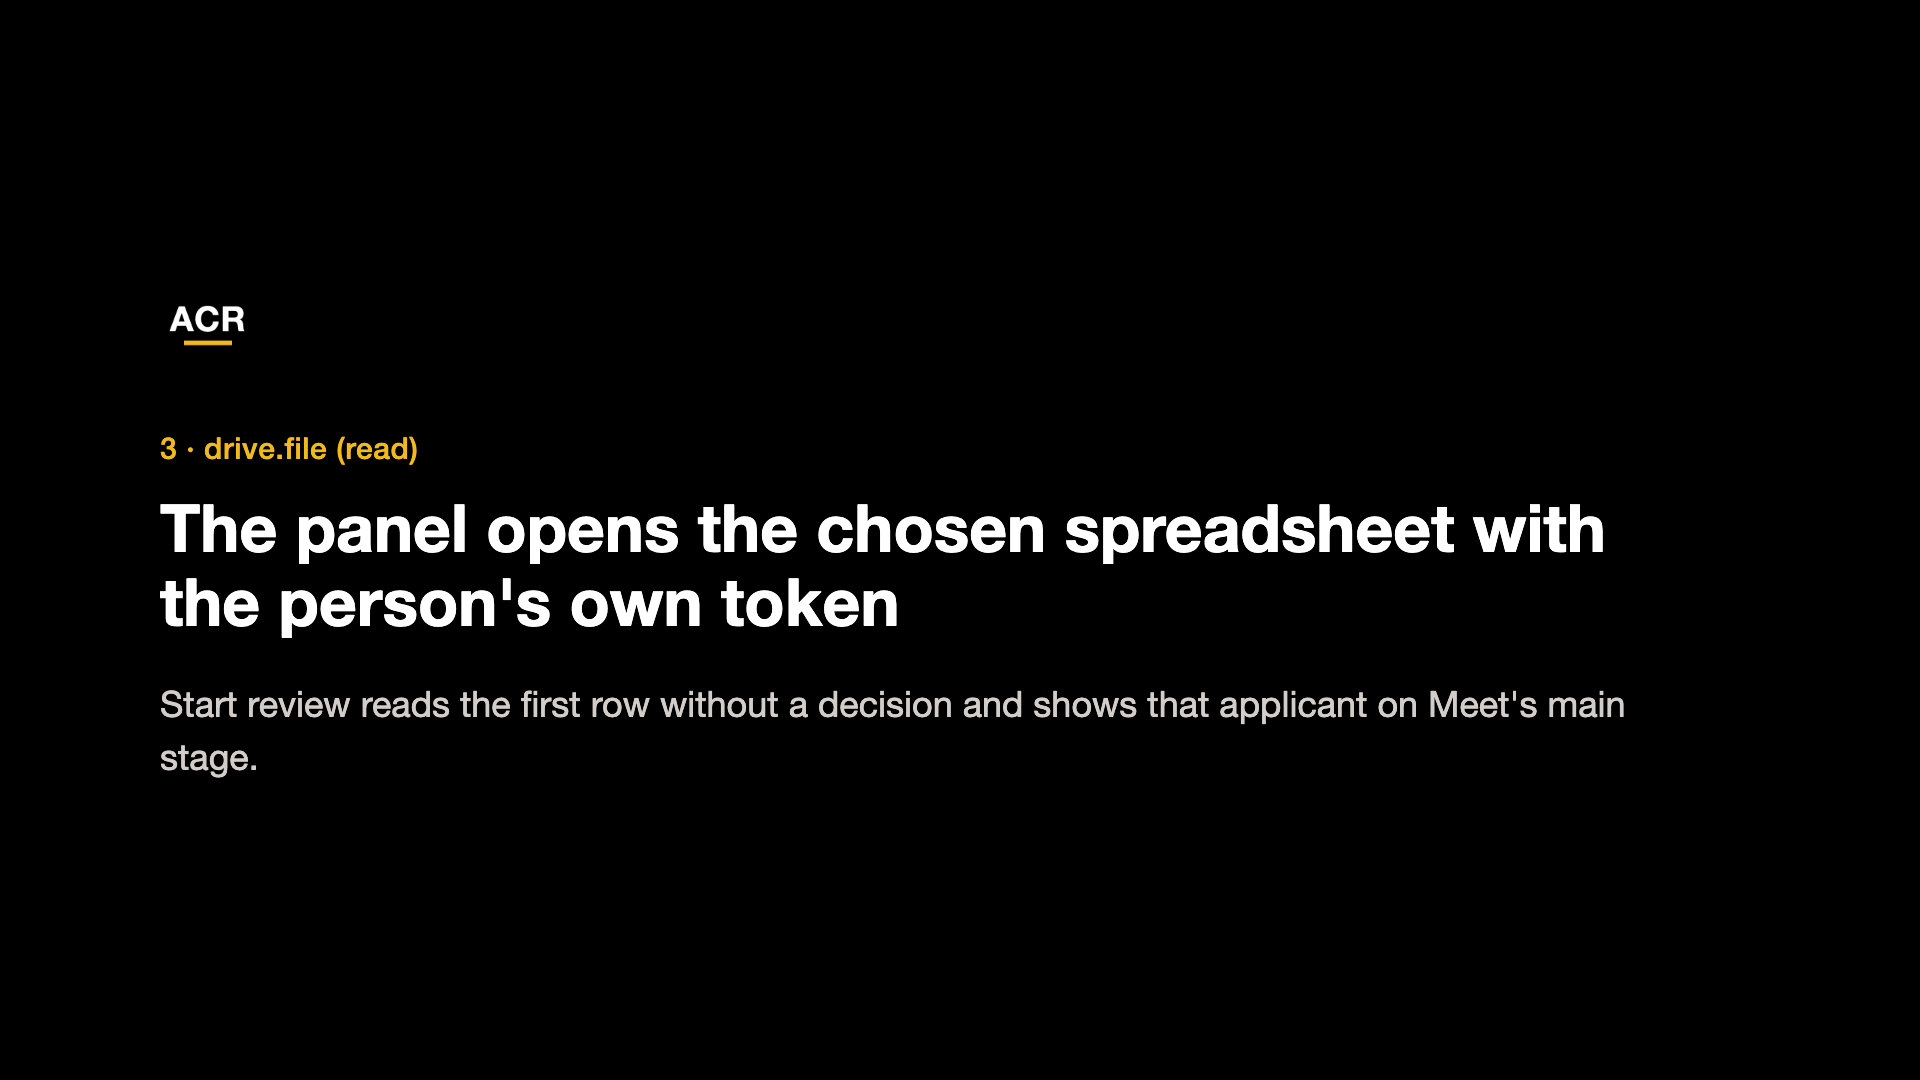
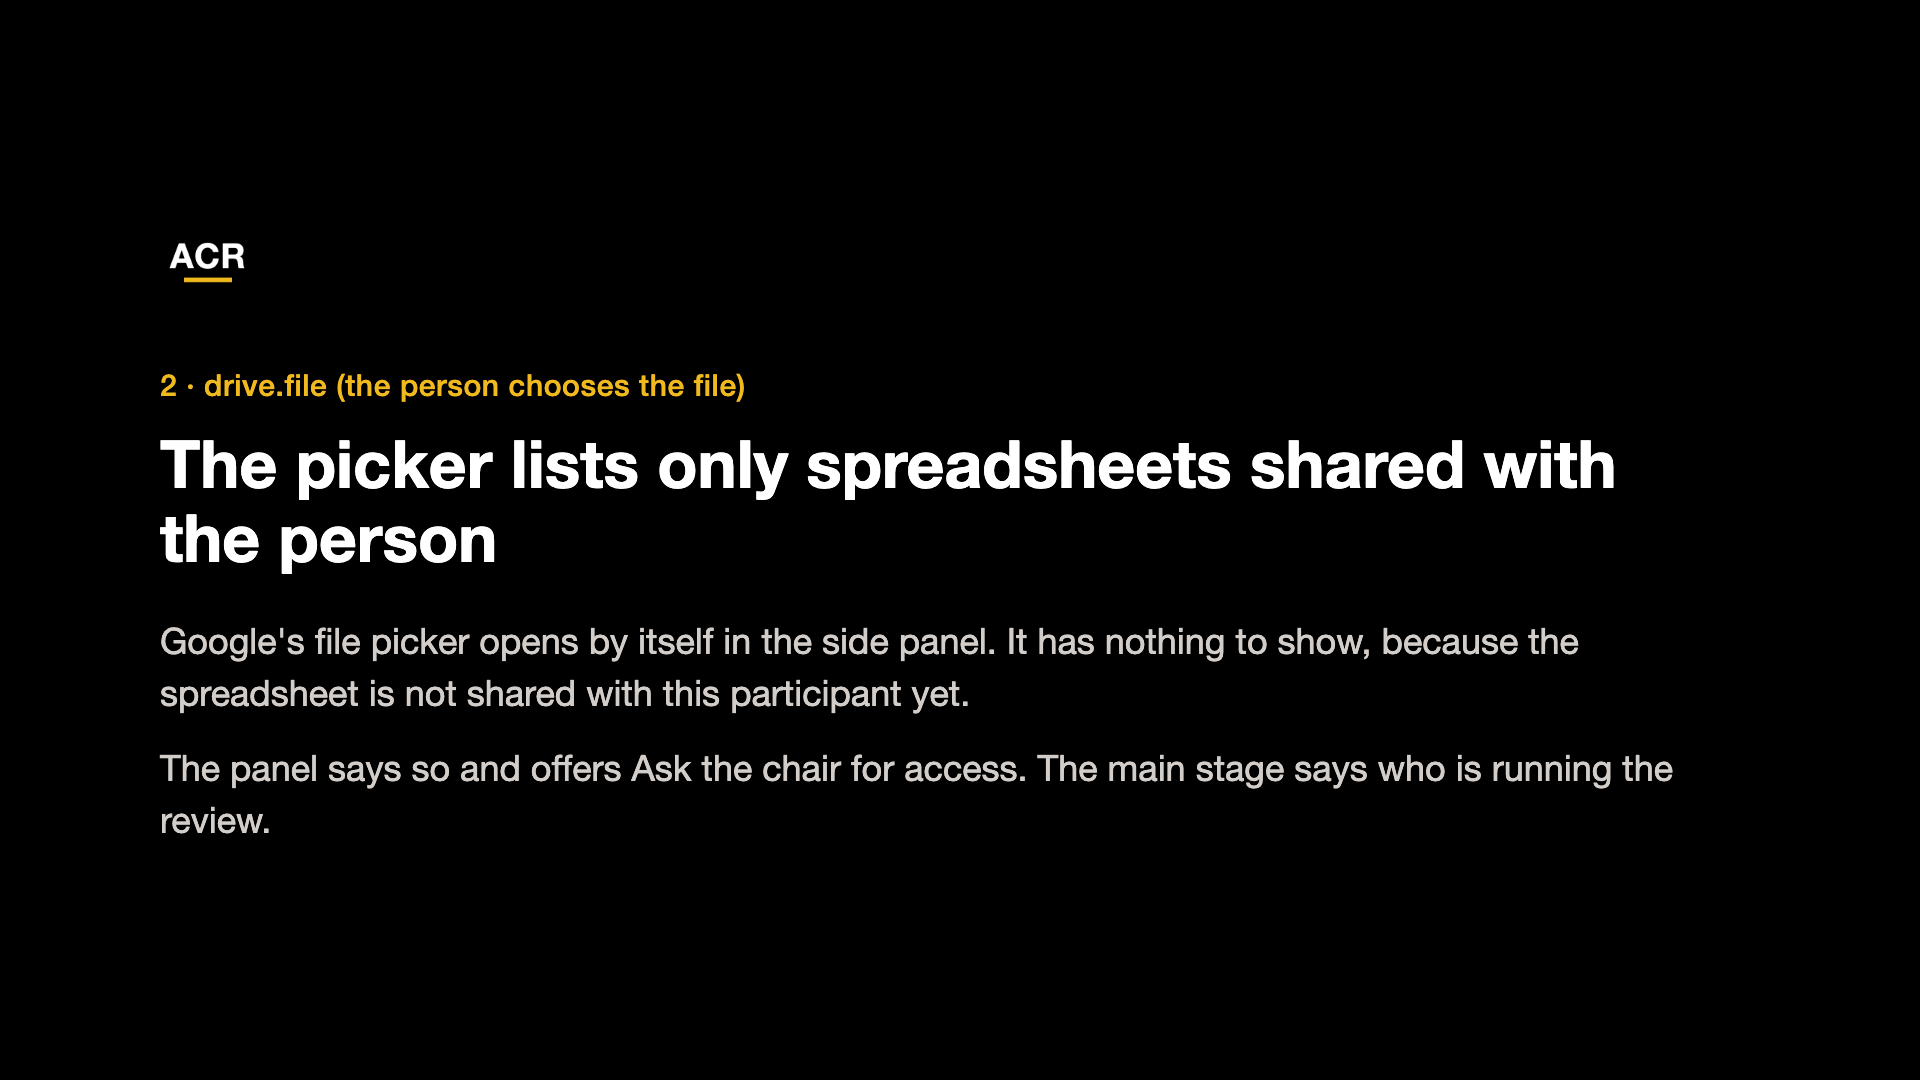
Review video for v0.9.2: asking for access, Share, votes, record, the sheet
Ben: "After you submit and you keep working on the updated video because
I'd like it ready if they need it."

Claude-Session: https://claude.ai/code/session_01FPuSAmHbjxvZiMBbDPTbAF

Changed region(s): [[0.0625, 0.3972, 0.875, 0.7944], [0.0625, 0.2139, 0.4062, 0.3667]]

diff --git a/tools/meet-addon/screencast/card03.html b/tools/meet-addon/screencast/card03.html
@@ -6,4 +6,4 @@ img{width:96px;height:96px;border-radius:20px;margin-bottom:56px}
 h1{font-size:66px;font-weight:700;line-height:1.12;margin:0 0 40px;max-width:1560px}
 p,li{font-size:36px;line-height:1.45;color:#d2cdc8;max-width:1560px;margin:0 0 22px}
 ul{margin:0;padding-left:1.1em}
-</style><main><img src="mark.png" alt=""><p class="k">2 · drive.file (the person chooses the file)</p><h1>Google&#x27;s file picker opens by itself in the side panel</h1><p>The first time only, the person selects the committee&#x27;s spreadsheet in the Google Picker (setFileIds). ACR Helper can then open that one file and nothing else in their Drive.</p><p>The picker lists the spreadsheet only if it is shared with the person, so the spreadsheet&#x27;s own sharing decides who can use the add-on.</p><ul></ul></main>
+</style><main><img src="mark.png" alt=""><p class="k">1 · Sign in: one button, one Google window</p><h1>Sign in with Google: each participant chooses their own account</h1><p>When the browser holds several Google accounts, Google&#x27;s account chooser appears in each Meet tab, so every panel signs in as the person in the call.</p><p>openid, userinfo.email, userinfo.profile: sign the person in and show their name to the committee. drive.file: see and change only the files the person chooses for ACR Helper.</p><ul></ul></main>

diff --git a/tools/meet-addon/screencast/card01.html b/tools/meet-addon/screencast/card01.html
@@ -6,4 +6,4 @@ img{width:96px;height:96px;border-radius:20px;margin-bottom:56px}
 h1{font-size:66px;font-weight:700;line-height:1.12;margin:0 0 40px;max-width:1560px}
 p,li{font-size:36px;line-height:1.45;color:#d2cdc8;max-width:1560px;margin:0 0 22px}
 ul{margin:0;padding-left:1.1em}
-</style><main><img src="mark.png" alt=""><p class="k">OAuth verification · project 29360684398 · acr-helper</p><h1>ACR Helper: a Google Meet™ add-on for a committee deciding on one applicant at a time</h1><p>This video shows every user-facing feature end to end, on a spreadsheet of made-up applicants labeled TEST.</p><p>Scopes requested: openid, userinfo.email, userinfo.profile, and drive.file. Nothing else is read from Google, and no spreadsheet data is sent to any server.</p><ul></ul></main>
+</style><main><img src="mark.png" alt=""><p class="k">Marketplace review · project 29360684398 · version 0.9.2</p><h1>ACR Helper: a Google Meet™ add-on for a committee deciding on one applicant at a time</h1><p>This video shows the whole workflow with two people in one call, on a spreadsheet of made-up applicants labeled TEST.</p><p>Scopes requested: openid, userinfo.email, userinfo.profile, and drive.file. No spreadsheet data is sent to any server.</p><ul></ul></main>

diff --git a/tools/meet-addon/screencast/card02.html b/tools/meet-addon/screencast/card02.html
@@ -6,4 +6,4 @@ img{width:96px;height:96px;border-radius:20px;margin-bottom:56px}
 h1{font-size:66px;font-weight:700;line-height:1.12;margin:0 0 40px;max-width:1560px}
 p,li{font-size:36px;line-height:1.45;color:#d2cdc8;max-width:1560px;margin:0 0 22px}
 ul{margin:0;padding-left:1.1em}
-</style><main><img src="mark.png" alt=""><p class="k">1 · Sign in: one button, one Google window</p><h1>Sign in with Google opens Google&#x27;s consent window with every scope</h1><p>openid, userinfo.email, userinfo.profile: sign the person in and show their name to the committee when they vote.</p><p>drive.file: see and change only the specific Google Drive files the person chooses for ACR Helper. One Tap is not used: it returns only an ID token, never Drive access, and for a new user it adds a second Google window.</p><ul></ul></main>
+</style><main><img src="mark.png" alt=""><p class="k">Two participants</p><h1>The chair has the spreadsheet. The second participant was never given access.</h1><p>The chair has already chosen the TEST spreadsheet and starts the review.</p><p>The second participant joins the running activity. The spreadsheet is not shared with them, so the add-on must let them get access during the session.</p><ul></ul></main>

diff --git a/tools/meet-addon/screencast/card10.html b/tools/meet-addon/screencast/card10.html
@@ -1,0 +1,9 @@
+<!doctype html><meta charset="utf-8"><style>
+html,body{margin:0;width:1920px;height:1080px;background:#000;color:#fff;font-family:"Helvetica Neue",Helvetica,Arial,sans-serif}
+main{box-sizing:border-box;height:1080px;padding:110px 160px;display:flex;flex-direction:column;justify-content:center}
+img{width:96px;height:96px;border-radius:20px;margin-bottom:56px}
+.k{color:#f0b91e;font-size:30px;font-weight:500;margin:0 0 20px;letter-spacing:.02em}
+h1{font-size:66px;font-weight:700;line-height:1.12;margin:0 0 40px;max-width:1560px}
+p,li{font-size:36px;line-height:1.45;color:#d2cdc8;max-width:1560px;margin:0 0 22px}
+ul{margin:0;padding-left:1.1em}
+</style><main><img src="mark.png" alt=""><p class="k">Summary</p><h1>Everyone in the call can take part, with the spreadsheet&#x27;s own sharing deciding access</h1><ul><li>openid, userinfo.email, userinfo.profile: sign-in, and each member&#x27;s name</li><li>drive.file: read the chosen spreadsheet; write the decision and a note; share it with a participant when the chair presses Share</li><li>No other file or Google data is opened</li><li>Privacy policy: acr.humanshaped.org/privacy/</li></ul></main>

diff --git a/tools/meet-addon/screencast/card08.html b/tools/meet-addon/screencast/card08.html
@@ -6,4 +6,4 @@ img{width:96px;height:96px;border-radius:20px;margin-bottom:56px}
 h1{font-size:66px;font-weight:700;line-height:1.12;margin:0 0 40px;max-width:1560px}
 p,li{font-size:36px;line-height:1.45;color:#d2cdc8;max-width:1560px;margin:0 0 22px}
 ul{margin:0;padding-left:1.1em}
-</style><main><img src="mark.png" alt=""><p class="k">Summary</p><h1>One chosen file, the person&#x27;s own permission, nothing kept elsewhere</h1><ul><li>openid, userinfo.email, userinfo.profile: sign-in, and the voter&#x27;s name</li><li>drive.file: read the chosen spreadsheet; write the decision, a note, and the hidden key tab</li><li>No other file or Google data is opened</li><li>Privacy policy: acr.humanshaped.org/privacy/</li></ul></main>
+</style><main><img src="mark.png" alt=""><p class="k">6 · drive.file (write)</p><h1>The chair records the decision; a note is added</h1><p>Record writes the committee&#x27;s decision into that applicant&#x27;s row, with a cell note naming who recorded it and when.</p><p>Add note appends a line to the row&#x27;s notes cell. Nothing else is changed.</p><ul></ul></main>

diff --git a/tools/meet-addon/screencast/card04.html b/tools/meet-addon/screencast/card04.html
@@ -6,4 +6,4 @@ img{width:96px;height:96px;border-radius:20px;margin-bottom:56px}
 h1{font-size:66px;font-weight:700;line-height:1.12;margin:0 0 40px;max-width:1560px}
 p,li{font-size:36px;line-height:1.45;color:#d2cdc8;max-width:1560px;margin:0 0 22px}
 ul{margin:0;padding-left:1.1em}
-</style><main><img src="mark.png" alt=""><p class="k">3 · drive.file (read)</p><h1>The panel opens the chosen spreadsheet with the person&#x27;s own token</h1><p>Start review reads the first row without a decision and shows that applicant on Meet&#x27;s main stage.</p><ul></ul></main>
+</style><main><img src="mark.png" alt=""><p class="k">2 · drive.file (the person chooses the file)</p><h1>The picker lists only spreadsheets shared with the person</h1><p>Google&#x27;s file picker opens by itself in the side panel. It has nothing to show, because the spreadsheet is not shared with this participant yet.</p><p>The panel says so and offers Ask the chair for access. The main stage says who is running the review.</p><ul></ul></main>

diff --git a/tools/meet-addon/screencast/card05.html b/tools/meet-addon/screencast/card05.html
@@ -6,4 +6,4 @@ img{width:96px;height:96px;border-radius:20px;margin-bottom:56px}
 h1{font-size:66px;font-weight:700;line-height:1.12;margin:0 0 40px;max-width:1560px}
 p,li{font-size:36px;line-height:1.45;color:#d2cdc8;max-width:1560px;margin:0 0 22px}
 ul{margin:0;padding-left:1.1em}
-</style><main><img src="mark.png" alt=""><p class="k">4 · Deciding together</p><h1>Private votes, revealed together</h1><p>Each member votes in their own panel; no one sees a choice until the chair presses Reveal.</p><p>Votes are never stored.</p><ul></ul></main>
+</style><main><img src="mark.png" alt=""><p class="k">3 · Permission adjustment during the session</p><h1>The chair sees the request and presses Share</h1><p>The request reaches the chair&#x27;s side panel within the call. Share gives the participant view access to that one spreadsheet, using the chair&#x27;s own permission on the file they chose (drive.file).</p><p>Not now declines. No one is added without the chair pressing Share.</p><ul></ul></main>

diff --git a/tools/meet-addon/screencast/card09.html b/tools/meet-addon/screencast/card09.html
@@ -1,0 +1,9 @@
+<!doctype html><meta charset="utf-8"><style>
+html,body{margin:0;width:1920px;height:1080px;background:#000;color:#fff;font-family:"Helvetica Neue",Helvetica,Arial,sans-serif}
+main{box-sizing:border-box;height:1080px;padding:110px 160px;display:flex;flex-direction:column;justify-content:center}
+img{width:96px;height:96px;border-radius:20px;margin-bottom:56px}
+.k{color:#f0b91e;font-size:30px;font-weight:500;margin:0 0 20px;letter-spacing:.02em}
+h1{font-size:66px;font-weight:700;line-height:1.12;margin:0 0 40px;max-width:1560px}
+p,li{font-size:36px;line-height:1.45;color:#d2cdc8;max-width:1560px;margin:0 0 22px}
+ul{margin:0;padding-left:1.1em}
+</style><main><img src="mark.png" alt=""><p class="k">7 · The spreadsheet afterward</p><h1>What ACR Helper changed, in the one file it can open</h1><p>The decision and its note in the applicant&#x27;s row, and the participant now listed as a viewer in the spreadsheet&#x27;s sharing.</p><ul></ul></main>

diff --git a/tools/meet-addon/screencast/card06.html b/tools/meet-addon/screencast/card06.html
@@ -6,4 +6,4 @@ img{width:96px;height:96px;border-radius:20px;margin-bottom:56px}
 h1{font-size:66px;font-weight:700;line-height:1.12;margin:0 0 40px;max-width:1560px}
 p,li{font-size:36px;line-height:1.45;color:#d2cdc8;max-width:1560px;margin:0 0 22px}
 ul{margin:0;padding-left:1.1em}
-</style><main><img src="mark.png" alt=""><p class="k">5 · drive.file (write)</p><h1>The chair records the decision; a note is added</h1><p>Record writes the committee&#x27;s decision into that applicant&#x27;s row, with a cell note naming who recorded it and when.</p><p>Add note appends a line to the row&#x27;s Notes from Admissions cell. Nothing else is changed.</p><ul></ul></main>
+</style><main><img src="mark.png" alt=""><p class="k">4 · Joining the review</p><h1>The participant&#x27;s picker opens by itself, now listing the spreadsheet</h1><p>They select it once, and the add-on opens the review on the applicant the chair is showing.</p><ul></ul></main>

diff --git a/tools/meet-addon/screencast/card07.html b/tools/meet-addon/screencast/card07.html
@@ -6,4 +6,4 @@ img{width:96px;height:96px;border-radius:20px;margin-bottom:56px}
 h1{font-size:66px;font-weight:700;line-height:1.12;margin:0 0 40px;max-width:1560px}
 p,li{font-size:36px;line-height:1.45;color:#d2cdc8;max-width:1560px;margin:0 0 22px}
 ul{margin:0;padding-left:1.1em}
-</style><main><img src="mark.png" alt=""><p class="k">6 · The spreadsheet afterward</p><h1>What ACR Helper wrote, in the one file it can open</h1><p>The decision cell (Maybe = Waitlist) and its note, the appended line in Notes from Admissions, and a hidden tab holding the key that encrypts messages between members&#x27; add-ons.</p><ul></ul></main>
+</style><main><img src="mark.png" alt=""><p class="k">5 · Deciding together</p><h1>Private votes, revealed together</h1><p>Each member votes in their own panel; no one sees a choice until the chair presses Reveal.</p><p>Votes are never stored.</p><ul></ul></main>

diff --git a/tools/meet-addon/screencast/tighten.py b/tools/meet-addon/screencast/tighten.py
@@ -2,7 +2,7 @@
 # screencast/tighten.py). Longer holds where Google's screens must be read.
 import subprocess, re, sys
 O = sys.argv[1]
-HOLDS = {'v3': 5, 'v1b': 4, 'v5': 4, 'v6c': 3.5, 'v7': 4}
+HOLDS = {'v3': 5, 'v1b': 4, 'v5': 4, 'v6c': 3.5, 'v7': 4, 'v3a': 4, 'v3b': 5, 'v9': 4}
 def dur(f): return float(subprocess.run(['ffprobe','-v','error','-show_entries','format=duration','-of','csv=p=0',f],capture_output=True,text=True).stdout)
 for name in sys.argv[2:]:
     HOLD = HOLDS.get(name, 2.5)

diff --git a/tools/meet-addon/SCREENCAST.md b/tools/meet-addon/SCREENCAST.md
@@ -1,3 +1,29 @@
+# Marketplace review video (v0.9.2), 2026-11-27
+
+**Not uploaded yet** (kept ready in case the reviewers ask). Built with
+`screencast/build2.sh <clips> <work>` from window clips s1-start, s2-join,
+s3-google, s3b-consent, s4-picker, s4b-asked.png (a still: the recorder
+dropped), s5-share, s6-select, s7-vote, s8-sheet and cards 01-10. Call
+cfw-vrff-usu: chair benwilkoff@gmail.com (owner of the gmail TEST copy) in
+the gmail Chrome profile; participant ben.wilkoff@minerva.edu in the minerva
+profile, taken off the copy and disconnected from ACR Helper in Drive first,
+so the chooser, consent and the empty picker show. minerva restored to
+Editor after (read back). TEST-0012 now reads `Maybe` with a TEST note.
+
+What made filming work on a loaded Mac:
+- Ask the other Claude sessions to stay out of Chrome first; they agreed.
+- Only the front window renders; raise it by AppleScript window id after
+  `activate` (raising by URL left the gmail window on top).
+- Chrome's debugging banner comes and goes and shifts the page about 53 px;
+  build2.sh crops from y=210 and blurs the pill area.
+- The recorder drops ("connection being interrupted") when Google's window
+  is raised or under load; check `done: N frames` after every clip.
+- Picker rows and Meet buttons were clicked through the extension at
+  coordinates mapped from window captures; Google's windows through
+  Accessibility (focus, then Return or Space with Chrome frontmost).
+
+---
+
 # Review video (drive.file), 2026-11-23
 
 **Uploaded:** youtu.be/ruo5K9UMRr8 (v0.8.1: one button, one Google window,
